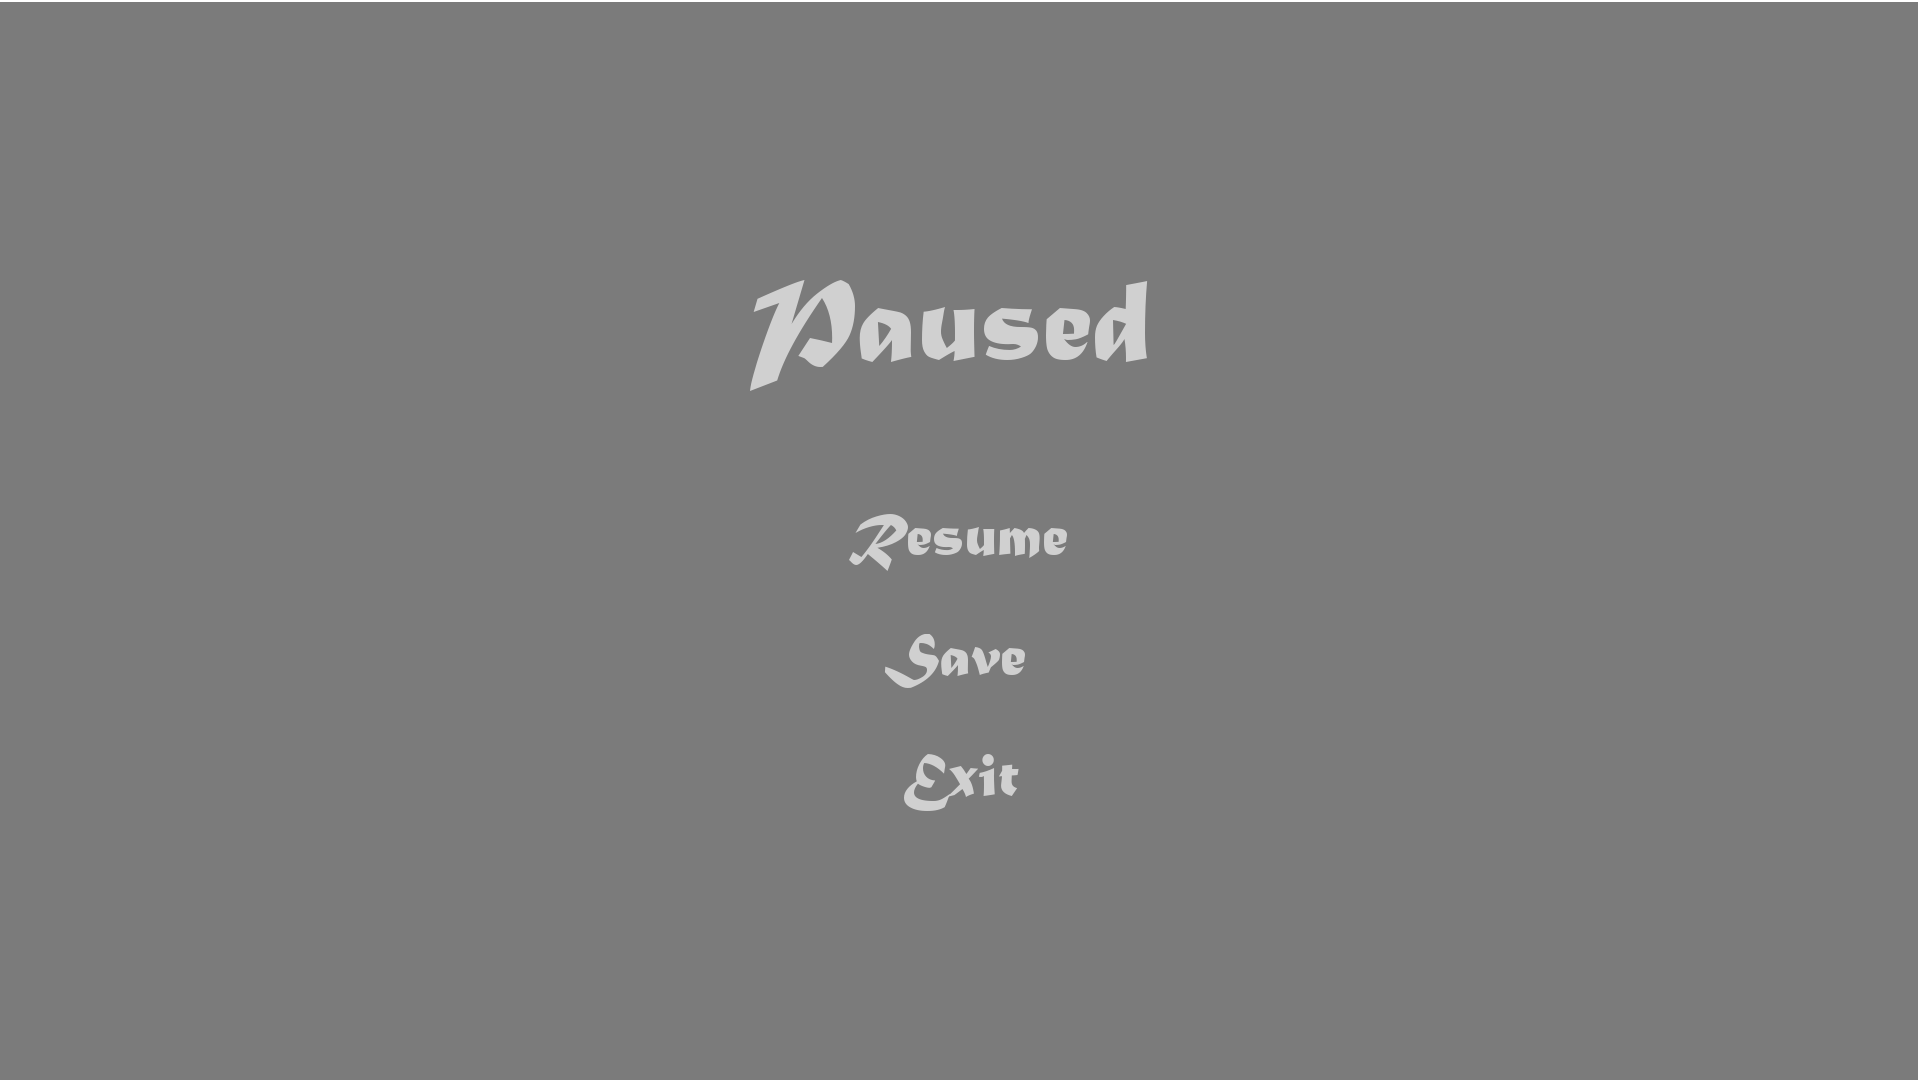
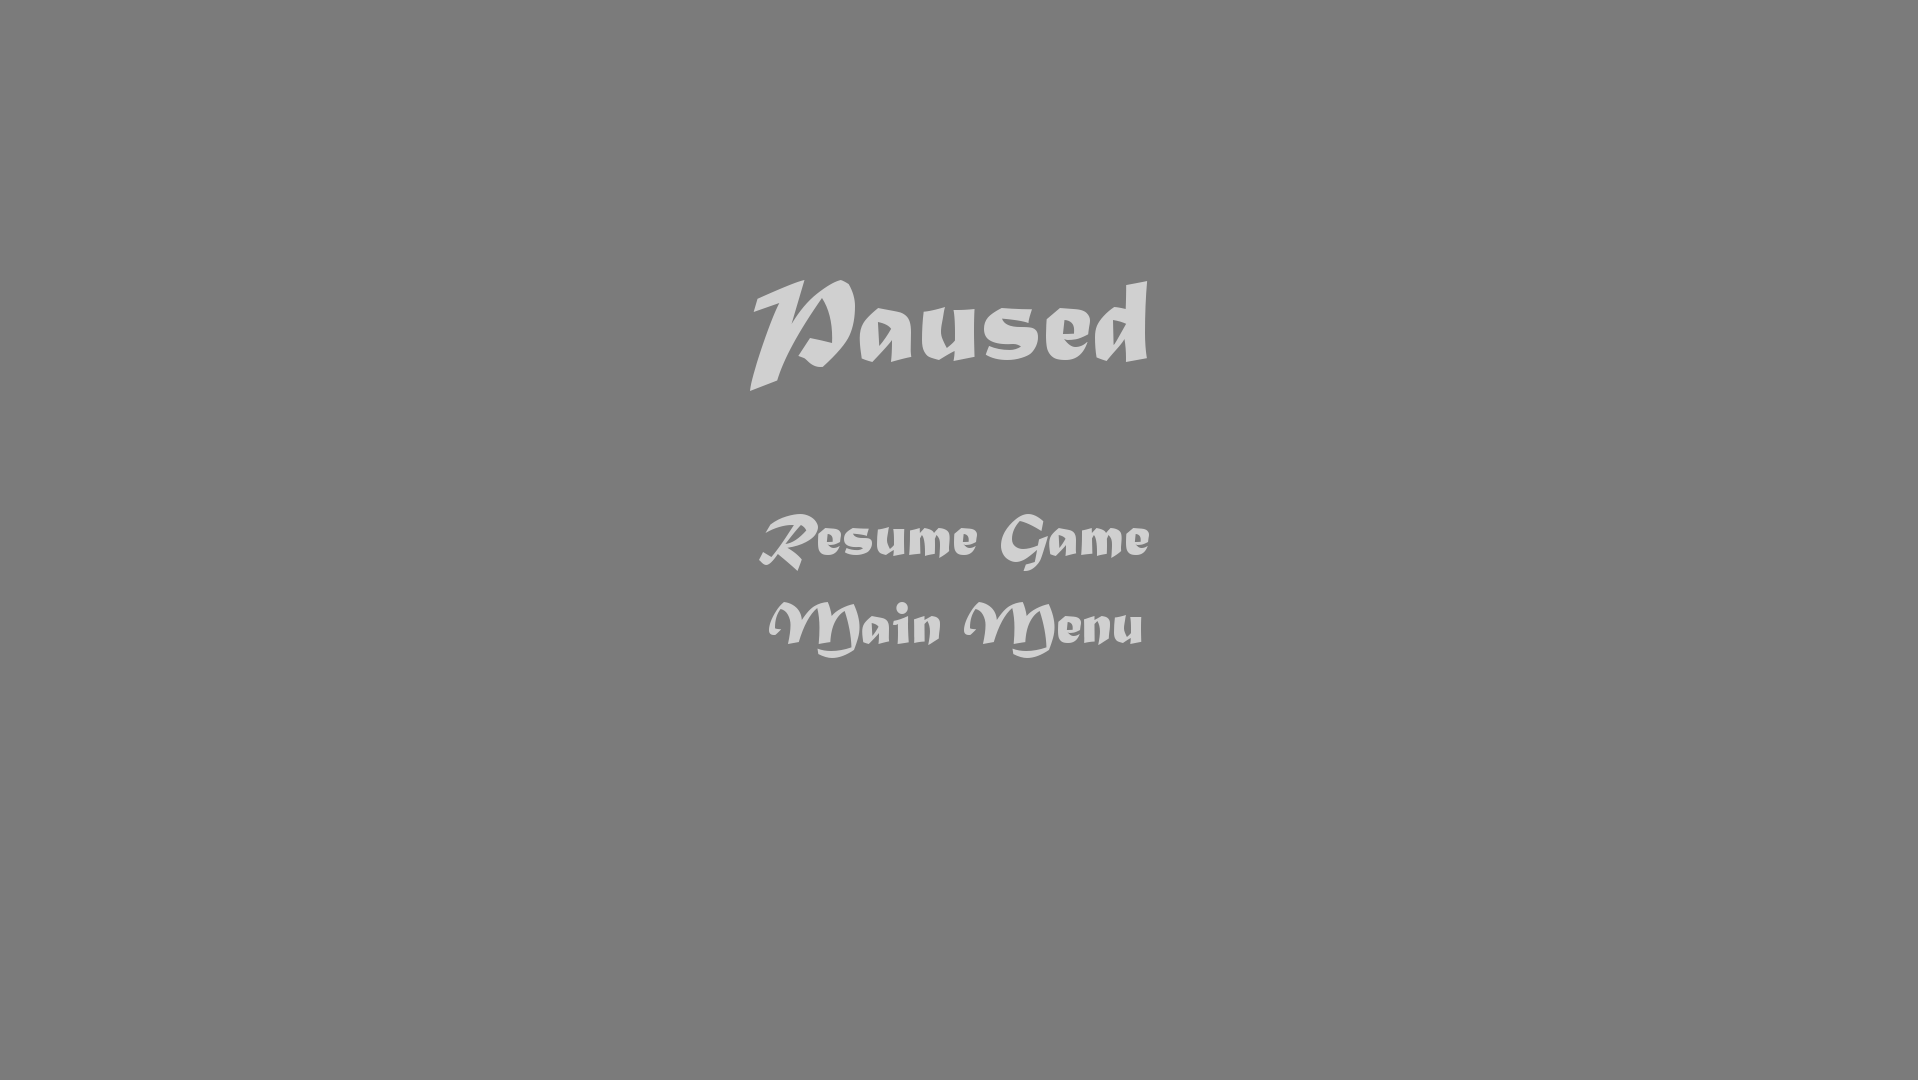
Modified pause screen and made so that the current selection on menus reset if the user leaves the menu and comes back.

Changed region(s): [[0.4062, 0.55, 0.5938, 0.6417], [0.4062, 0.4583, 0.5938, 0.5194], [0.4688, 0.7028, 0.5312, 0.7639]]

diff --git a/src/Game.cpp b/src/Game.cpp
@@ -37,10 +37,10 @@ Game::Game() :
 	statesMap(),
 	passedTime(0.0),
 	currentSelection(PSelection::RESUME),
-	selectorXPositionLeft {610, 635, 635},
-	selectorYPositionLeft {400, 500, 590},
-	selectorXPositionRight {880, 855, 855},
-	selectorYPositionRight {400, 500, 590}
+	selectorXPositionLeft {550, 550},
+	selectorYPositionLeft {400, 470},
+	selectorXPositionRight {930, 930},
+	selectorYPositionRight {400, 470}
 {
 	initializeStates();
 
@@ -110,6 +110,7 @@ void Game::runGame(){
 			std::array<bool, GameKeys::MAX> keyStates = Game::instance().getInput();
 
 			if(keyStates[GameKeys::ESCAPE] && isPauseable()){
+				this->currentSelection = PSelection::RESUME;
 				this->isPaused = true;
 			}
 
@@ -215,10 +216,6 @@ void Game::handleSelectorMenu(){
 	}
 	else if(currentSelection == PSelection::RESUME && keyStates[GameKeys::SPACE] == true){
 		this->isPaused = false;
-	}
-
-	else if(currentSelection == PSelection::SAVE && keyStates[GameKeys::SPACE] == true){
-		
 	}
 
 	else if(currentSelection == PSelection::EXIT && keyStates[GameKeys::SPACE] == true){

diff --git a/src/GStateContinue.cpp b/src/GStateContinue.cpp
@@ -33,6 +33,8 @@ void GStateContinue::load(){
 	this->background = Game::instance().getResources().get(pathBackground);
     this->selector = Game::instance().getResources().get(pathSelector);
 
+    this->currentSelection = Selection::SLOT_1;
+
     Game::instance().getFade().fadeOut(0, 0.002);
 }
 

diff --git a/src/GStateNewGame.cpp b/src/GStateNewGame.cpp
@@ -31,6 +31,8 @@ void GStateNewGame::load(){
 	this->background = Game::instance().getResources().get(pathBackground);
     this->selector = Game::instance().getResources().get(pathSelector);
 
+    this->currentSelection = Selection::SLOT_1;
+
     Game::instance().getFade().fadeOut(0, 0.002);
 }
 

diff --git a/include/Game.h b/include/Game.h
@@ -138,7 +138,6 @@ class Game {
 
 		enum PSelection : uint8_t {
 			RESUME = 0,
-			SAVE,
 			EXIT,
 			TOTAL
 		};
